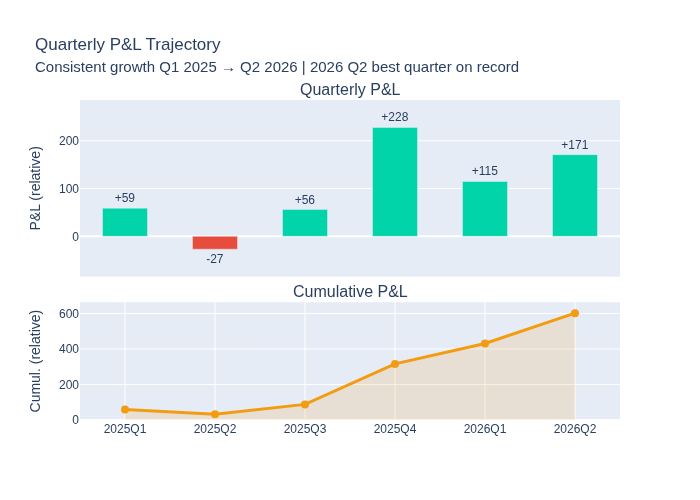
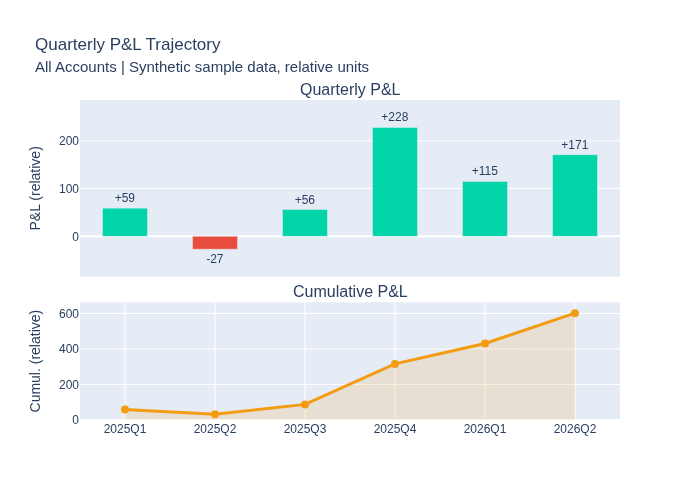
Correct the published win rate to a realized-P&L basis
The 78% (14/18 months) headline was a net-cash-flow figure, which the
repo's own methodology says is not a P&L measure. On a realized basis
(FIFO, by close month) the same 18 months score 10/18, and Jan 2025 -
Sep 2026 scores 12/21 (57%).

- options-analysis README (EN/KO): period extended to Sep 2026; realized
  57% as the headline with the 17/21 cash-flow count shown for contrast
  and an explanation of the gap. Ratios only, no dollar figures.
- insights_report.md: basis note stating the May 2026 narrative is on a
  cash-flow basis; realized win-rate row added to the KPI table.
- Sample charts: chart1 no longer claims a 78% win rate and chart8 no
  longer claims "consistent growth" (which its own synthetic bars
  contradict); both relabeled as synthetic sample data and regenerated.

Claude-Session: https://claude.ai/code/session_01CQi6FrFtVmHaPsPBcg6azz

Changed region(s): [[0.03, 0.12, 0.75, 0.15]]

diff --git a/options-analysis/generate_sample_charts.py b/options-analysis/generate_sample_charts.py
@@ -89,7 +89,7 @@ fig1.add_trace(go.Scatter(
 ), row=2, col=1)
 fig1.update_layout(
     title={"text": "Cumulative P&L — Jan 2025 to May 2026<br>"
-                   "<span style='font-size:15px;font-weight:normal;'>All Accounts | 78% Monthly Win Rate (14/18 months)</span>"},
+                   "<span style='font-size:15px;font-weight:normal;'>All Accounts | Synthetic sample data, relative units</span>"},
     height=600, margin=dict(t=100)
 )
 fig1.update_yaxes(title_text="P&L (relative)", row=1, col=1)
@@ -220,7 +220,7 @@ fig8.add_trace(go.Scatter(
 ), row=2, col=1)
 fig8.update_layout(
     title={"text": "Quarterly P&L Trajectory<br>"
-                   "<span style='font-size:15px;font-weight:normal;'>Consistent growth Q1 2025 → Q2 2026 | 2026 Q2 best quarter on record</span>"}
+                   "<span style='font-size:15px;font-weight:normal;'>All Accounts | Synthetic sample data, relative units</span>"}
 )
 fig8.update_yaxes(title_text="P&L (relative)", row=1, col=1)
 fig8.update_yaxes(title_text="Cumul. (relative)", row=2, col=1)

diff --git a/options-analysis/README.ko.md b/options-analysis/README.ko.md
@@ -1,10 +1,10 @@
-# 옵션 트레이딩 분석 (2025년 1월 – 2026년 5월)
+# 옵션 트레이딩 분석 (2025년 1월 – 2026년 9월)
 
 [English](README.md) | **한국어**
 
 ## 개요
 
-4개 증권 계좌(Account A, B, C, D)의 개인 옵션 거래 내역(2025년 1월 1일 – 2026년 5월 29일)을 분석한 파이프라인과, 거기서 얻은 인사이트를 담은 폴더입니다.
+4개 증권 계좌(Account A, B, C, D)에서 직접(수동으로) 매매한 개인 옵션 거래 내역(2025년 1월 – 2026년 9월, 21개월)을 분석한 파이프라인과, 거기서 얻은 인사이트를 담은 폴더입니다.
 
 ---
 
@@ -14,7 +14,8 @@
 options-analysis/
 ├── data/
 │   ├── Accounts_History*.csv    # Fidelity 원본 export (직접 추가, 커밋 금지)
-│   └── options_cleaned.csv      # analysis.py가 자동 생성
+│   ├── options_cleaned.csv      # analysis.py가 자동 생성
+│   └── realized_pnl.csv         # 자동 생성: FIFO로 매칭된 청산 1건당 1행
 ├── charts/                      # PNG 차트 9종 — 샘플만 커밋
 ├── analysis.py                  # 전체 파이프라인: 로드 → 정제 → 분석 → 시각화
 ├── generate_sample_charts.py    # 합성 데이터로 charts/ 생성 (공개용)
@@ -24,14 +25,17 @@ options-analysis/
 
 ---
 
-## 주요 지표 (2025년 1월 – 2026년 5월)
+## 주요 지표 (2025년 1월 – 2026년 9월)
 
 | 지표 | 값 |
 |---|---|
-| 월간 승률 | **78%** (18개월 중 14개월 수익) |
+| 월간 승률 (실현손익 기준) | **57%** (21개월 중 12개월 수익) |
+| 순현금흐름이 플러스인 달 | 21개월 중 17개월 — 비교용이며 손익 지표가 아님 |
 | 주력 전략 | 풋 크레딧 스프레드 |
 | 계좌 | 4개 (일반 계좌 + IRA) |
-| 기간 | 2025년 1월 – 2026년 5월 |
+| 기간 | 2025년 1월 – 2026년 9월 |
+
+**숫자가 두 개인 이유.** 실현손익은 모든 청산을 그 진입 거래와 매칭(계좌·계약별 FIFO)해서, 포지션을 닫은 달에 손익을 기록합니다. 순현금흐름은 거래일 기준으로 들어오고 나간 프리미엄을 단순히 더한 값입니다. 크레딧 스프레드는 프리미엄을 먼저 받기 때문에, 신규 진입이 많은 달은 결과가 나오기도 전에 수익처럼 보입니다. 이 거래 이력에서도 현금흐름 기준으로는 17개월이 플러스지만 실현손익 기준으로는 12개월이고, 이 차이가 바로 실현손익을 성과 지표로 쓰는 이유입니다. (이 README의 이전 버전에 있던 78%는 현금흐름 기준 수치였습니다.)
 
 > 구체적인 손익 수치는 private 레포에서 관리합니다.
 
@@ -48,9 +52,10 @@ cp ~/Downloads/Accounts_History*.csv data/
 
 # 3. 전체 파이프라인 실행
 python analysis.py
-# → 요약 통계를 콘솔에 출력
-# → data/options_cleaned.csv 저장
-# → charts/에 차트 9종 저장
+# → 실현손익(FIFO)과 순현금흐름을 나란히 출력하고,
+#   실현손익 + 미청산 프리미엄 + 기간 이전 청산 == 순현금흐름 인지 검증
+# → data/options_cleaned.csv, data/realized_pnl.csv 저장
+# → charts/에 차트 9종 저장 (손익 차트는 실현손익 기준)
 ```
 
 **기간이 겹치는 export를 함께 넣어도 됩니다.** 여러 export에 반복된 행은 한 번만 집계하지만, 한 export *안의* 똑같은 행은 그대로 둡니다. 분할 체결(같은 계약·가격·날짜)은 똑같은 행으로 찍히는데 실제 거래이기 때문에, 단순히 중복을 일괄 제거하면 이런 거래가 소리 없이 사라집니다.

diff --git a/options-analysis/README.md b/options-analysis/README.md
@@ -1,9 +1,9 @@
-# Options Trading Analysis (Jan 2025 – May 2026)
+# Options Trading Analysis (Jan 2025 – Sep 2026)
 
 **English** | [한국어](README.ko.md)
 
 ## Overview
-This folder contains the analysis pipeline and insights derived from personal options trading transaction data (January 1, 2025 – May 29, 2026) across four brokerage accounts (Account A, B, C, D).
+This folder contains the analysis pipeline and insights derived from personal, manually traded options transaction data (January 2025 – September 2026, 21 months) across four brokerage accounts (Account A, B, C, D).
 
 ---
 
@@ -13,7 +13,8 @@ This folder contains the analysis pipeline and insights derived from personal op
 options-analysis/
 ├── data/
 │   ├── Accounts_History*.csv    # Raw Fidelity export files (add manually, do NOT commit)
-│   └── options_cleaned.csv      # Auto-generated by analysis.py
+│   ├── options_cleaned.csv      # Auto-generated by analysis.py
+│   └── realized_pnl.csv         # Auto-generated: one row per FIFO-matched close
 ├── charts/                      # PNG charts (9 total) — sample set committed
 ├── analysis.py                  # Full pipeline: load → clean → analyze → visualize
 ├── generate_sample_charts.py    # Generates charts/ from synthetic data (for display)
@@ -23,14 +24,24 @@ options-analysis/
 
 ---
 
-## Key Stats (Jan 2025 – May 2026)
+## Key Stats (Jan 2025 – Sep 2026)
 
 | Metric | Value |
 |---|---|
-| Monthly Win Rate | **78%** (14 / 18 months profitable) |
+| Monthly Win Rate (realized P&L) | **57%** (12 / 21 months profitable) |
+| Months with positive net cash flow | 17 / 21 — shown for contrast, not a P&L measure |
 | Primary Strategy | Put Credit Spreads |
 | Accounts | 4 (Individual + IRA types) |
-| Period | Jan 2025 – May 2026 |
+| Period | Jan 2025 – Sep 2026 |
+
+**Why two numbers.** Realized P&L matches every close to its opening trade
+(FIFO, per account and contract) and books the result in the month the
+position closed. Net cash flow just sums premium in and out by transaction
+date — and because a credit spread pays its premium up front, months with many
+new positions look profitable before their outcome is known. On this history
+the cash-flow view shows 17 green months against 12 on a realized basis, which
+is exactly why realized P&L is the performance metric. (Earlier versions of
+this README quoted a cash-flow-basis 78%.)
 
 > Specific P&L figures are maintained in a private repository.
 
@@ -47,9 +58,10 @@ cp ~/Downloads/Accounts_History*.csv data/
 
 # 3. Run full pipeline
 python analysis.py
-# → Prints summary stats to console
-# → Saves data/options_cleaned.csv
-# → Saves 9 charts to charts/
+# → Prints realized P&L (FIFO) next to net cash flow, and checks that
+#   realized + still-open premium + pre-window closes == cash flow
+# → Saves data/options_cleaned.csv and data/realized_pnl.csv
+# → Saves 9 charts to charts/ (P&L charts use realized P&L)
 ```
 
 **Overlapping exports are safe to combine.** Rows repeated across exports with

diff --git a/options-analysis/insights_report.md b/options-analysis/insights_report.md
@@ -2,13 +2,24 @@
 **Period:** January 1, 2025 – May 29, 2026
 **Primary Strategy:** Put Credit Spreads + Covered Calls + Wheel
 
+> **Basis note (added Oct 2026).** This report was written in May 2026 on a
+> **net cash flow** basis — premium in and out summed by transaction date. The
+> month marks (✅/❌), best/worst months and quarter-over-quarter comparisons
+> below follow that basis. Cash flow overstates results while positions are
+> still open, because a credit spread pays its premium before its outcome is
+> known. On a **realized P&L** basis (FIFO-matched, booked in the month the
+> position closed) the same months score 10/18; through September 2026 it is
+> 12/21. Realized P&L is the performance metric used everywhere else in this
+> repo — see the [README](README.md).
+
 ---
 
 ## 1. Overall Performance
 
 | Metric | 2025 Full Year | 2026 YTD | Lifetime |
 |---|---|---|---|
-| **Monthly Win Rate** | 75% (9/12) | 83% (5/6) | 78% (14/18) |
+| **Monthly Win Rate (realized P&L)** | 58% (7/12) | 50% (3/6) | 56% (10/18) |
+| Months with positive net cash flow | 75% (9/12) | 83% (5/6) | 78% (14/18) |
 | **Primary Strategy** | Put Credit Spreads | Put Credit Spreads | Put Credit Spreads |
 
 **2025 pattern:** H2 significantly outperformed H1. H1 was essentially flat — April tariff-driven drawdown erased all early gains. H2 recovered strongly, with Q4 being the dominant quarter.
